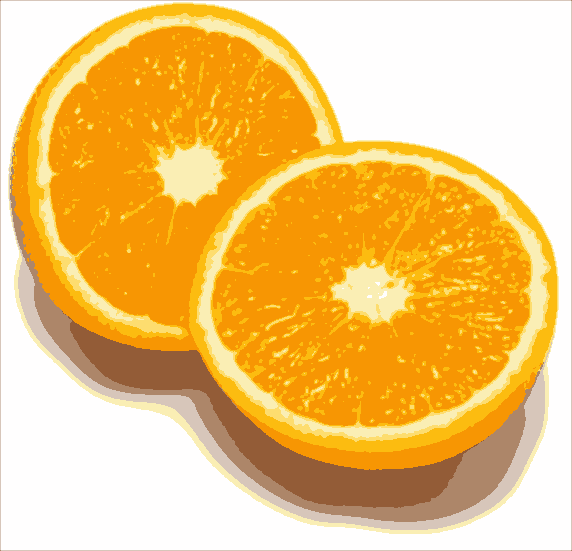
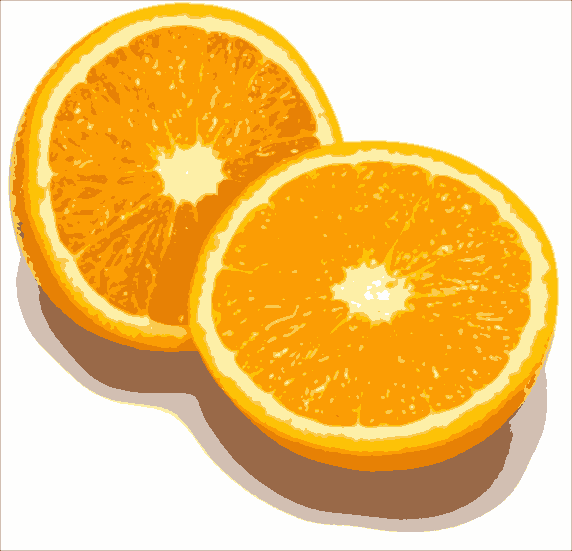
Modify

diff --git a/Lab3/lab3_part2_Kmeans.m b/Lab3/lab3_part2_Kmeans.m
@@ -48,13 +48,14 @@ clc
 clear
 
 %K = [4, 8, 16];      % number of clusters used
-K = [4, 8, 25];      % number of clusters used
+K = [4, 8];      % number of clusters used
 %L = [10, 20];        % number of iterations
-L = [5, 30];        % number of iterations
+L = [160];        % number of iterations
 seed = 14;           % seed used for random initialization
 scale_factor = 1.0;  % image downscale factor % 1 = no scaling
 image_sigma = 1.0;   % image preblurring scale
 images = {'orange.jpg', 'tiger1.jpg', 'tiger2.jpg', 'tiger3.jpg'};
+images = {'orange.jpg'};
 
 tic
 for u = 1 : length(images)
@@ -71,7 +72,43 @@ for u = 1 : length(images)
             %[ segm, centers ] = kmeans_segm(I, K(i), L(j), seed, 0);
             [ segm, centers ] = kmeans_segm2(I, K(i), L(j), seed, 0);
             Inew = mean_segments(Iback, segm);
-            imagesc(Inew);
+            I = overlay_bounds(Iback, segm);
+            imagesc(I);
+            title(['Cluster = ', num2str(K(i)), ', Iteration = ', num2str(L(j))]);
+            axis off
+        end
+    end
+end
+toc
+
+%% Test super pixels
+clc
+clear
+
+%K = [4, 8, 16];      % number of clusters used
+K = [4, 8, 10];      % number of clusters used
+L = [20,60];
+seed = 14;           % seed used for random initialization
+scale_factor = 1.0;  % image downscale factor % 1 = no scaling
+image_sigma = 1.0;   % image preblurring scale
+images = {'orange.jpg'};
+
+tic
+for u = 1 : length(images)
+    figure(14 + u)
+    I = imread(images{u});
+    I = imresize(I, scale_factor);
+    Iback = I;
+    d = 2*ceil(image_sigma*2) + 1;
+    h = fspecial('gaussian', [d d], image_sigma);
+    I = imfilter(I, h);
+    for i = 1 : length(K)
+        for j = 1 : length(L)
+            subplot(length(L), length(K), (j-1)*length(K) + i)
+            %[ segm, centers ] = kmeans_segm(I, K(i), L(j), seed, 0);
+            [ segm, centers ] = kmeans_segm2(I, K(i), L(j), seed, 0);
+            I = overlay_bounds(Iback, segm);
+            imagesc(I);
             title(['Cluster = ', num2str(K(i)), ', Iteration = ', num2str(L(j))]);
             axis off
         end
@@ -82,7 +119,6 @@ toc
 %% Test different scale_factor and amount of pre-blurring
 clc
 clear
-
 
 K = 8;                           % number of clusters used
 L = 30;                          % number of iterations
@@ -157,6 +193,39 @@ for u = 1 : length(images)
     I = overlay_bounds(Iback, segm);
     imagesc(I);
     title('Overlay');
+    axis off
+end
+toc
+
+%% Analyze K
+clc
+clear
+
+K = [4, 8, 12, 16, 18, 20];               % number of clusters used
+seed = 14;           % seed used for random initialization
+scale_factor = 1.0;  % image downscale factor % 1 = no scaling
+image_sigma = 1.0;   % image preblurring scale
+images = {'orange.jpg'};
+u = 1;
+L = 60;
+
+tic
+for k = 1 : length(K)
+    I = imread(images{u});
+    I = imresize(I, scale_factor);
+    Iback = I;
+    d = 2*ceil(image_sigma*2) + 1;
+    h = fspecial('gaussian', [d d], image_sigma);
+    I = imfilter(I, h);
+    
+    figure(20 + 5*u)
+    %[ segm, centers, L ] = kmeans_segm_stopCriterium(I, K(k), seed, 0);
+    [ segm, centers] = kmeans_segm2(I, K(k), L, seed, 0);
+
+    subplot(2,3,k)
+    I = overlay_bounds(Iback, segm);
+    imagesc(I);
+    title(['Cluster = ', num2str(K(k)), ' Iteration = ', num2str(L)]);
     axis off
 end
 toc

diff --git a/Lab3/lab3_part5_graphcuts.m b/Lab3/lab3_part5_graphcuts.m
@@ -148,21 +148,20 @@ area = [ 80, 110, 570, 300 ]; % image region to train foreground with
 alpha = 8.0;                 % maximum edge cost
 sigma = 10.0;                % edge cost decay factor
 
-%K = [2, 4, 6, 8];                      % number of mixture components
-%I = imread('tiger1.jpg'); % 340*616*3
+K = [2, 4, 6, 8];                      % number of mixture components
+I = imread('tiger1.jpg'); % 340*616*3
 
-I = imread('tiger1.jpg');
+% 
+% K = [4, 6, 8, 16];                      % number of mixture components
+% alpha = 15.0;                 % maximum edge cost
+% sigma = 15.0;                % edge cost decay factor
+% I = imread('tiger2.jpg');
 
-K = [4, 6, 8, 16];                      % number of mixture components
+
 alpha = 15.0;                 % maximum edge cost
-sigma = 15.0;                % edge cost decay factor
-I = imread('tiger2.jpg');
-
-
-%alpha = 15.0;                 % maximum edge cost
-%sigma = 10.0; 
-%I = imread('tiger3.jpg');
-%K = [4, 6, 8, 16];                      % number of mixture components
+sigma = 10.0; 
+I = imread('tiger3.jpg');
+K = [2,3  4, 6];                      % number of mixture components
 I = imresize(I, scale_factor); % 170*308*3
 Iback = I;
 area = int16(area*scale_factor); % rescale area to downsampled image
@@ -172,8 +171,8 @@ for i = 1 : length(K)
     [ segm, prior ] = graphcut_segm(I, area, K(i), alpha, sigma);
     Ilay = overlay_bounds(Iback, segm);
     Inew = mean_segments(Iback, segm);
-    subplot(2, 4, i); imshow(Inew);title(['K = ', num2str(K(i))]);
-    subplot(2, 4, i+4); imshow(Ilay);
+    subplot(2, length(K), i); imshow(Inew);title(['K = ', num2str(K(i))]);
+    subplot(2, length(K), i + length(K)); imshow(Ilay);
 end
 
 

diff --git a/Lab3/lab3_part3_MeanShift.m b/Lab3/lab3_part3_MeanShift.m
@@ -6,9 +6,9 @@ clear
 scale_factor = 0.5;                      % image downscale factor
 spatial_bandwidth = [3.0, 4.0, 6.0];     % spatial bandwidth
 colour_bandwidth = [3.0, 4.0, 6.0];      % colour bandwidth
-%spatial_bandwidth = [3.0, 8.0, 13.0];   % spatial bandwidth (radical)
-%colour_bandwidth = [3.0, 8.0, 13.0];    % colour bandwidth (radical)
-num_iterations = 40;                     % number of mean-shift iterations
+spatial_bandwidth = [ 3.0, 8.0, 10];   % spatial bandwidth (radical)
+colour_bandwidth = [0.1, 3.0, 8.0];    % colour bandwidth (radical)
+num_iterations = 60;                     % number of mean-shift iterations
 image_sigma = 1.0;                       % image preblurring scale
 images = {'orange.jpg', 'tiger1.jpg', 'tiger2.jpg', 'tiger3.jpg'};
 images = {'tiger1.jpg'};
@@ -27,7 +27,7 @@ for u = 1 : length(images)
             subplot(length(colour_bandwidth), length(spatial_bandwidth), (j-1)*length(spatial_bandwidth) + i)
             segm = mean_shift_segm(I, spatial_bandwidth(i), colour_bandwidth(j), num_iterations);
             Inew = mean_segments(Iback, segm);
-            I = overlay_bounds(Iback, segm);
+            %I = overlay_bounds(Iback, segm);
             %imshow(I)
             imshow(Inew)
             title(['SpatialBandwidth = ', num2str(spatial_bandwidth(i)), ', ColorBandwidth = ', num2str(colour_bandwidth(j))]);

diff --git a/Lab3/kmeans_segm2.m b/Lab3/kmeans_segm2.m
@@ -27,6 +27,7 @@ for l = 1 : L % Iterate L times
     end
     if verbose == 1
         plot(l, norm(V_temp - V), 'bo');
+        disp(['L = ', num2str(l), ' Change of center:', num2str(norm(V_temp - V))]);
         hold on
     end
     D = pdist2(X, V,'euclidean');

diff --git a/Lab3/bildat_lab3/mean_shift_segm.m b/Lab3/bildat_lab3/mean_shift_segm.m
@@ -6,7 +6,7 @@ tic
 fprintf('Find colour channels with K-means...\n');
 K = 16;
 L = 20;
-[ segm, centers ] = kmeans_segm2(I, K, L, 4321);
+[ segm, centers ] = kmeans_segm2(I, K, L, 4321, 0);
 toc
 
 centers(isnan(centers)) = 0.0;
